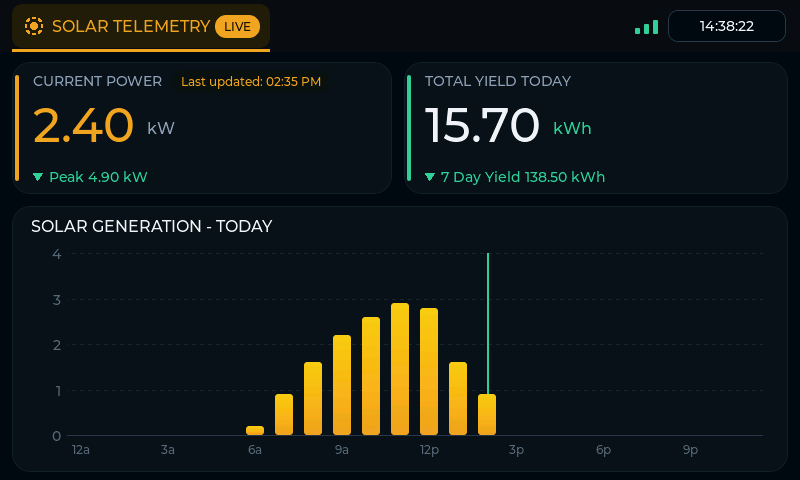
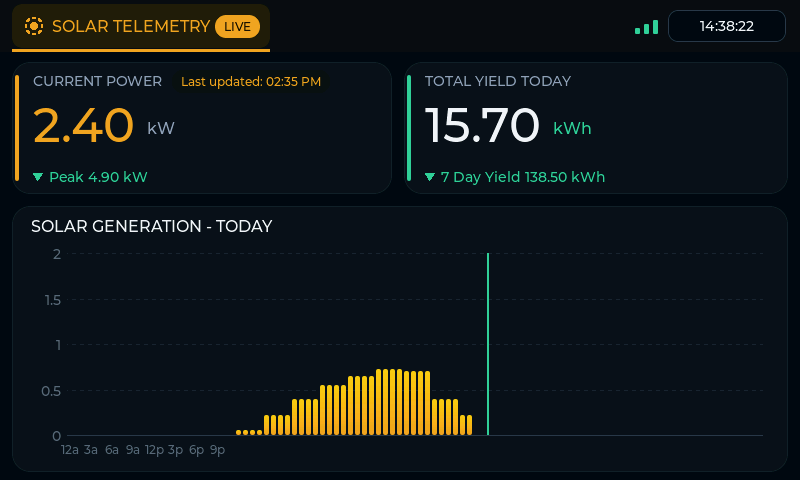
docs: README/NOTES for the push architecture; screenshot with 96-bar chart
Drop the direct-poll architecture description (superseded by the
GHOSTING §8 root cause); document server/, the push contract, quick
start via just, and the new test layout. Regenerate the screenshot from
the hostsim with the new 96-bucket chart. NOTES.md session entry
records the rearchitecture decisions.

Changed region(s): [[0.2812, 0.625, 0.625, 0.9062], [0.1562, 0.9062, 0.2812, 0.9688], [0.0938, 0.9062, 0.125, 0.9688]]

diff --git a/README.md b/README.md
@@ -2,97 +2,112 @@
 
 A wall-mounted solar-telemetry HMI for the **Waveshare ESP32-S3-Touch-LCD-7**
 (800×480, 7", RGB + touch), built with PlatformIO / arduino-esp32 / LVGL 8.
-The board shows live production from an Enphase IQ Gateway — current power,
-today's yield, daily peak, and a 24-hour generation bar graph — over Wi-Fi,
-with a wall clock synced without SNTP. **Self-contained: no relay or second
-host required.**
+The board is a **pure renderer**: an always-on host (the Mac) polls the
+Enphase IQ Gateway, accumulates today's production, and pushes
+ready-to-render screen state to the board once per second over a LAN TCP
+socket. The board never performs a long radio pull — that was the root
+cause of the panel's ghosting/tearing (see
+[docs/GHOSTING_INVESTIGATION.md](docs/GHOSTING_INVESTIGATION.md) §8).
 
 ## Architecture
 
 ```
-                    LAN (direct TLS, self-signed, bearer token)
- Enphase IQ Gateway ───────────────────────────────────────────>  ESP32-S3 + LVGL
-                                                                   (5-min poll
-                                                                    cadence,
-                                                                    ~13 s radio
-                                                                    per fetch)
+ Enphase IQ Gateway ──60 s HTTPS poll──>  Rust push server (Mac, server/)
+                                             │ 15-min buckets + SQLite
+                                             │ (today's state survives
+                                             │  service restarts)
+                                             └──1 s TCP push──────────>  ESP32-S3 + LVGL
+                                                 newline-delimited JSON    (thin socket client
+                                                 (complete screen state)     + renderer)
 ```
+
+The push payload is a documented, versioned contract
+(`"v":1` — `server/src/contract.rs`): current watts, today's yield,
+today's peak, 7-day energy, the 96 15-minute generation buckets, and the
+host's `epoch` (the board's **only** clock source: header clock and chart
+now-line both derive from it). The board merges nothing — every line is
+the complete screen state.
+
+WiFi airtime on the board is a ~1 s connect plus millisecond receives,
+which the one-variable ghosting experiments proved clean; the Envoy's
+20–55 s TLS fetches were the trigger, and they now happen on the Mac.
+
+Today's buckets are computed from deltas of the Envoy's cumulative
+`whToday` counter (bucket-start baseline, live partial, straddle carry
+across boundaries gated on sample freshness, gap gate leaves missed
+buckets empty), ported from the retired board-side `solar_hist` module
+and now living in `server/src/buckets.rs` with a Rust test suite that
+mirrors the old Unity case list.
 
 ![Dashboard screenshot](docs/screenshot.png)
 
 *Rendered by the host simulator (`firmware/hostsim/`) — the same
 `dashboard_ui.cpp` the board runs, with a canned mid-afternoon sample.*
 
-The board polls the Envoy itself over TLS every 5 minutes and keeps the
-hourly bar graph in NVS, so nothing else needs to be running for the panel
-to work. An earlier iteration routed data through a relay host (the Envoy's
-TLS is slow from the board, and radio airtime perturbs the RGB panel); the
-panel-noise root cause was later fixed on the board itself
-(RGB PCLK 16→13 MHz plus `WiFi.setSleep(false)` — the full saga is in
-docs/NOTES.md), which made the direct path viable. Fetch windows are now
-visibly quiet, user-verified.
-
-Hourly buckets are computed on-board as deltas of the Envoy's cumulative
-`whToday` counter (hour-start baseline, live partial for the current hour,
-gap-gated across outages), persisted as a single versioned NVS snapshot
-with converters for all prior formats.
-
-The old relay remains as **dormant, compile-time-optional code**
-(`SOLAR_POLL_VIA_RELAY=1` in `src/dashboard_data.h`): a stdlib-only Python
-poller + bucket builder + tiny HTTP server, kept as the seed of a possible
-future push service. Nothing runs it.
-
 ## Layout
 
 ```
-firmware/            PlatformIO project for the board (the "lvgl-demo" dir
-                     grew up; renamed in the 2026-11-15 cleanup)
+server/             Rust push service (`just run`)
+├── src/            main.rs (wiring), config.rs, envoy.rs, buckets.rs,
+│                   contract.rs, store.rs (SQLite), push.rs, clock.rs
+├── tests/          socket-pusher integration test (fake board client)
+├── config.example.toml   template for the gitignored config.toml
+└── data/           solar.db — today's buckets (gitignored runtime state)
+
+firmware/            PlatformIO project for the board
 ├── platformio.ini   board config: 16 MB flash, OPI PSRAM, 921600-baud console
-├── src/             application (main.cpp, dashboard_ui.cpp, dashboard_data.cpp)
+├── src/             application: main.cpp, dashboard_ui.cpp (renderer),
+│                   push_client.cpp (socket client — the entire data layer)
 ├── include/         lv_conf.h + secrets.h (gitignored) + secrets_example.h
 ├── lib/             vendored: LVGL 8.4, ESP32_Display_Panel, IO expander, CH343
 └── hostsim/         macOS SDL2 simulator of dashboard_ui.cpp + snapshot tooling
 
-relay/               solar_relay.py — dormant, optional (see above)
-docs/                NOTES.md — the full bring-up record, experiments, gotchas
+docs/                NOTES.md — bring-up record, experiments, decisions
 demos/               Waveshare official examples clone (reference only, untracked)
 ```
 
 ## Quick start
 
-Firmware (macOS):
+Host service (macOS):
 
-    brew install platformio
-    cp firmware/include/secrets_example.h firmware/include/secrets.h   # fill in
-    cd firmware && pio run -t upload          # UART Type-C port (see NOTES.md)
+    brew install just        # task runner
+    cargo --version || rustup default stable
+    cd server
+    cp config.example.toml config.toml    # fill in envoy_host + envoy_token
+    cd .. && just run                     # Ctrl-C to stop
 
-`secrets.h` carries Wi-Fi credentials and the Envoy host + bearer token
-(relay URL/key only if you enable the optional relay path) — it is gitignored
-and never committed.
+`server/config.toml` carries the Envoy host + bearer token — it is
+gitignored and never committed. The service creates and maintains
+`server/data/solar.db` (today's buckets).
 
-The wall clock seeds from a build stamp regenerated on every build
-(`pre_build_stamp.py`); a `TIME` command over the 921600-baud serial console
-is the manual fallback.
+Board firmware:
+
+    cp firmware/include/secrets_example.h firmware/include/secrets.h   # Wi-Fi + server IP
+    just fw-flash          # USB-C port (see NOTES.md); monitor: just fw-monitor
+
+`secrets.h` needs only the Wi-Fi credentials and the push server's LAN
+address — Envoy credentials no longer live on the board at all.
+
+The board's wall clock comes entirely from the pushed `epoch` (nudged
+when drift > 5 s). The 921600-baud serial console keeps the `SNAPSHOT` /
+`LVSNAP` frame-dump diagnostics from the ghosting investigation.
 
 ## Status
 
 - [x] Bring-up (screen, touch, flashing) — 2024-11
-- [x] LVGL dashboard UI (Solar tab live; GitHub tab designed but hidden until
-      it gets a data path)
-- [x] Wi-Fi with a radio-quiet profile (`setSleep(false)`, owned connect/backoff
-      cadence, RGB PCLK 13 MHz) — panel-noise saga closed, user-verified
-- [x] Live solar telemetry, direct from the Envoy (current W, today kWh,
-      daily peak; optional relay path still compiles)
-- [x] 24-hour hourly bar graph (on-board buckets, NVS-persisted, versioned
-      snapshot with migrations for prior formats)
-- [x] Wall clock: TZ-correct, build-stamp-seeded (SNTP wedges the loop —
-      see NOTES)
-- [x] Host-side unit tests (`pio test -e native`, 22 cases in <1 s):
-      hourly buckets + migrations (solar_hist) and wall clock + DST +
-      seed policy (wall_clock) — every logic path that can silently corrupt
-      the persisted history is pinned
-- [ ] GitHub "Web Stats" tab (blocked on WAN TLS filtering from the board)
+- [x] LVGL dashboard UI (Solar tab live; GitHub tab designed but hidden)
+- [x] Push rearchitecture: board = pure renderer, host = Rust push
+      service; radio airtime = ~1 s connect + ms receives
+- [x] 96-bucket (15-minute) generation bar chart, from the push stream
+- [x] Wall clock from the pushed epoch (no build-stamp seed, no SNTP,
+      no serial TIME — all retired with the poll paths)
+- [x] Rust test suite (`just test`, 29 cases): bucket accumulator
+      (straddle/gap/rollover/peak — the ported Unity case list), payload
+      contract, Envoy parser, SQLite round-trip, socket pusher cadence
+- [ ] Board reconnect/backoff hardening, offline indicator (out of scope
+      this version — if the push stops, the display keeps its last frame)
 
-See [docs/NOTES.md](docs/NOTES.md) for the full record: board gotchas (CAN-muxed
-USB, UART slide switch, 16 MB flash override), the noise experiments (E1-E6),
-TLS characterization, and the relay→direct-mode design decisions.
+See [docs/NOTES.md](docs/NOTES.md) for the full record: board gotchas
+(CAN-muxed USB, UART slide switch, 16 MB flash override), the noise
+experiments (E1-E6), TLS characterization, and the poll→push design
+decisions.

diff --git a/docs/NOTES.md b/docs/NOTES.md
@@ -442,3 +442,38 @@ working notes, not for the public/documented tree; ask John for it). Watchers le
 (serial+buffer dumps, continuous); cam_watch.py stood down (user covered the
 camera). Board rebooted 06:14; ran clean through 10:13 (4h) on the same
 charger — PSU swap is the top pending test.
+
+## 2026-11-18 evening: poll → push rearchitecture implemented
+
+Per the §8 root cause (RGB LCD scan-out vs WiFi radio airtime on the shared
+Octal-SPI bus + core 0; direct mode unsalvageable — no downward PCLK margin,
+×20 bounce buffer insufficient), the dashboard moved from "board polls" to
+"host pushes":
+
+- **`server/` (new, Rust)**: polls the Envoy every 60 s (bearer token in a
+  gitignored `server/config.toml` — no longer in any firmware file),
+  accumulates today's 15-minute buckets (96 per day; direct port of the
+  retired `solar_hist` state machine: straddle carry, 180 s gap gate,
+  midnight rollover — the analog of the old 900 s gate at the new 60 s
+  cadence), persists today's state in SQLite (`server/data/solar.db`, one
+  table, restart mid-day resumes without double-counting), and pushes the
+  complete screen state as newline-delimited JSON over TCP :8421 every
+  second. Contract is versioned (`"v":1`, `server/src/contract.rs`); the
+  pushed `epoch` is the board's only clock source.
+- **Board**: `dashboard_data.cpp` (Envoy TLS + relay poll + GitHub fetch),
+  `solar_hist`, `wall_clock` (build-stamp seed + serial TIME), NVS snapshot
+  paths — all deleted. New `push_client.cpp` (~250 lines): radio-quiet
+  WiFi connect (same backoff ladder) + TCP line reader + ArduinoJson into
+  the existing renderer. Chart is now 96 15-minute bars
+  (`dashboard_ui_set_chart`). Peak = max watts observed today, tracked
+  server-side.
+- **`relay/` deleted** (its runtime history file was already gitignored
+  data). The `pio test -e native` Unity harness is retired with `solar_hist`
+  / `wall_clock`; the Rust suite (`just test`) mirrors its case list.
+- Smoke-tested against the real Envoy and the board: the push-demo build
+  board connected to :8421 and the first poll line read
+  `0 W, 21121 Wh today, 7d 125721 Wh`.
+
+Radio budget check: board airtime is now ~1 s WiFi connect at boot plus
+millisecond receives of ~900 B lines once per second — the state the §8
+push-demo experiment proved clean.
